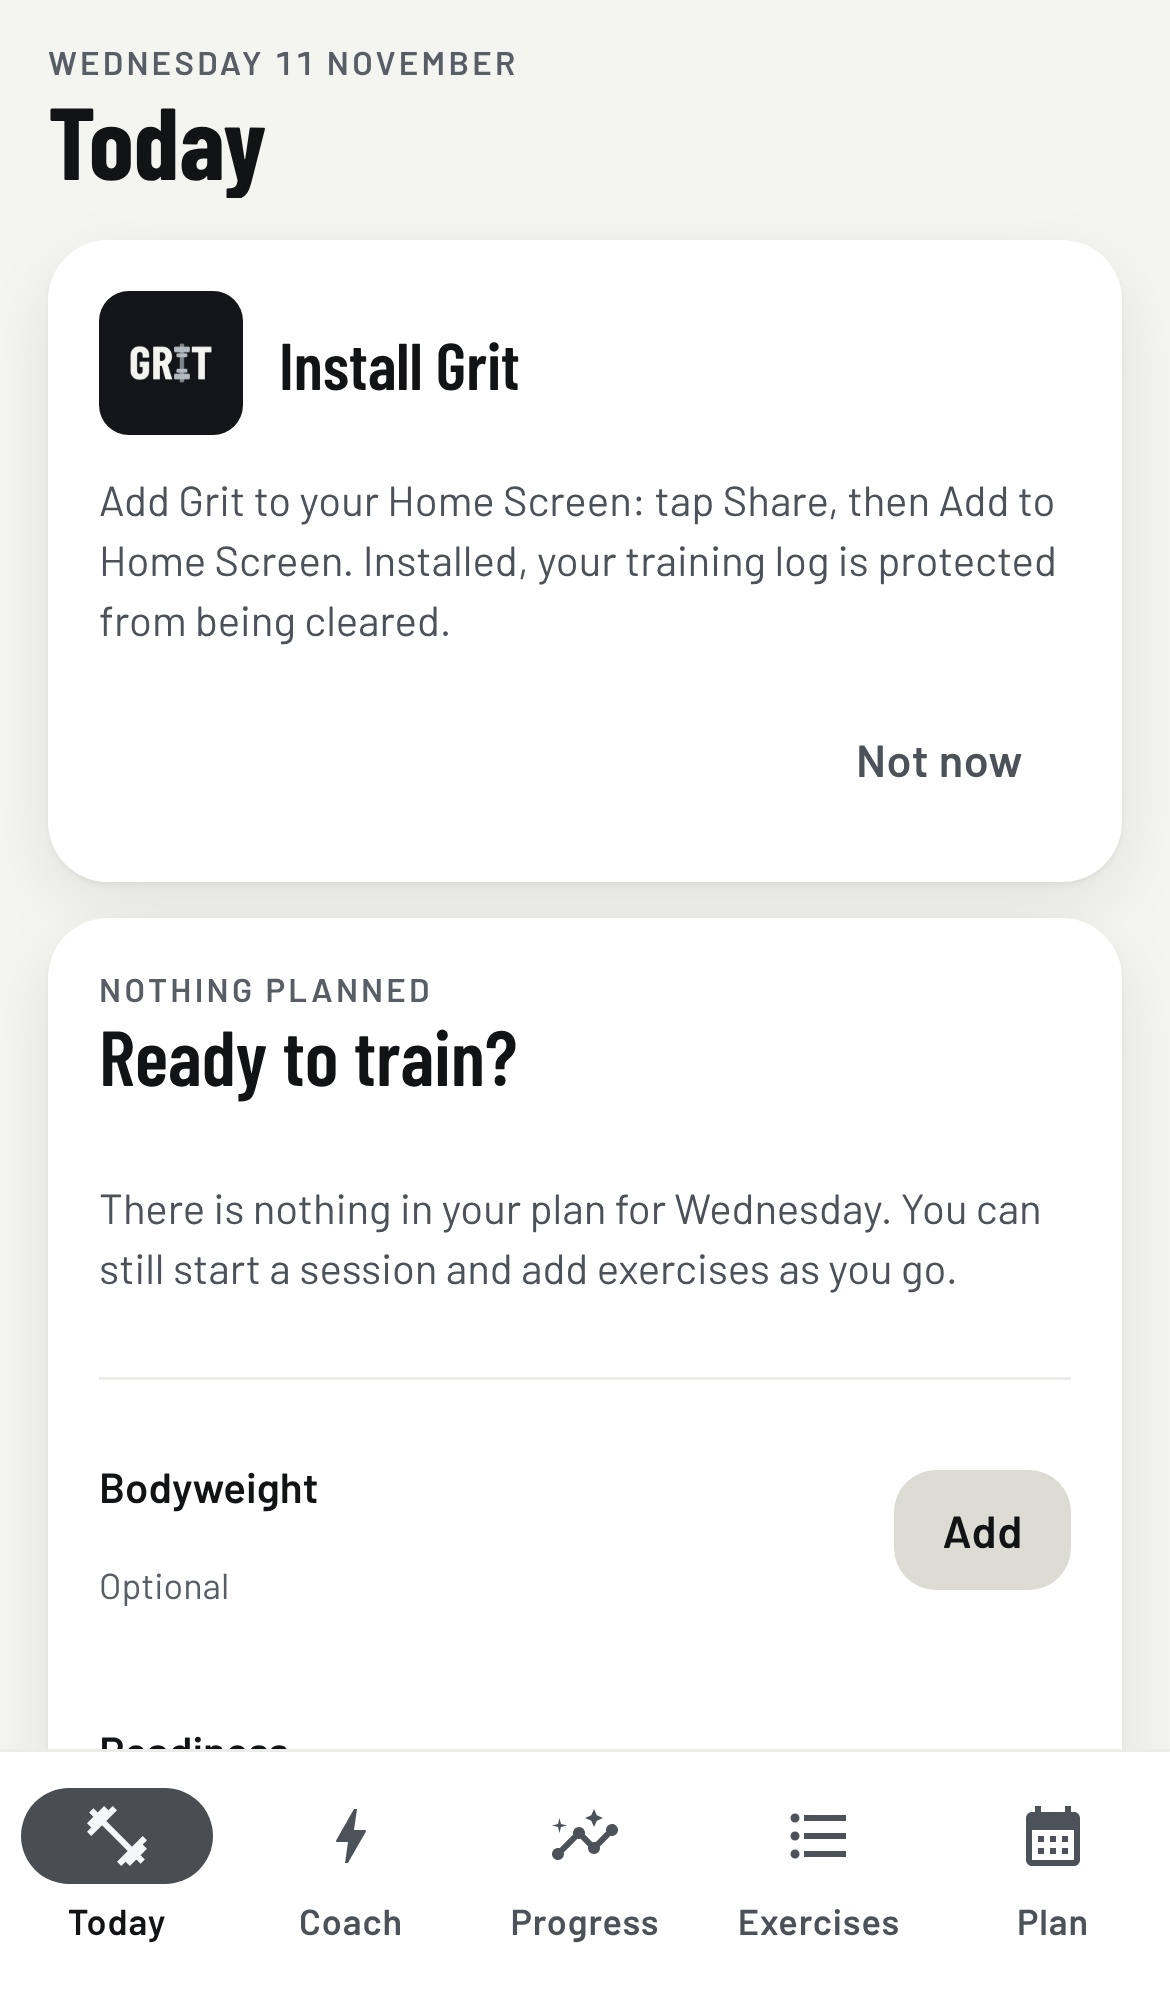
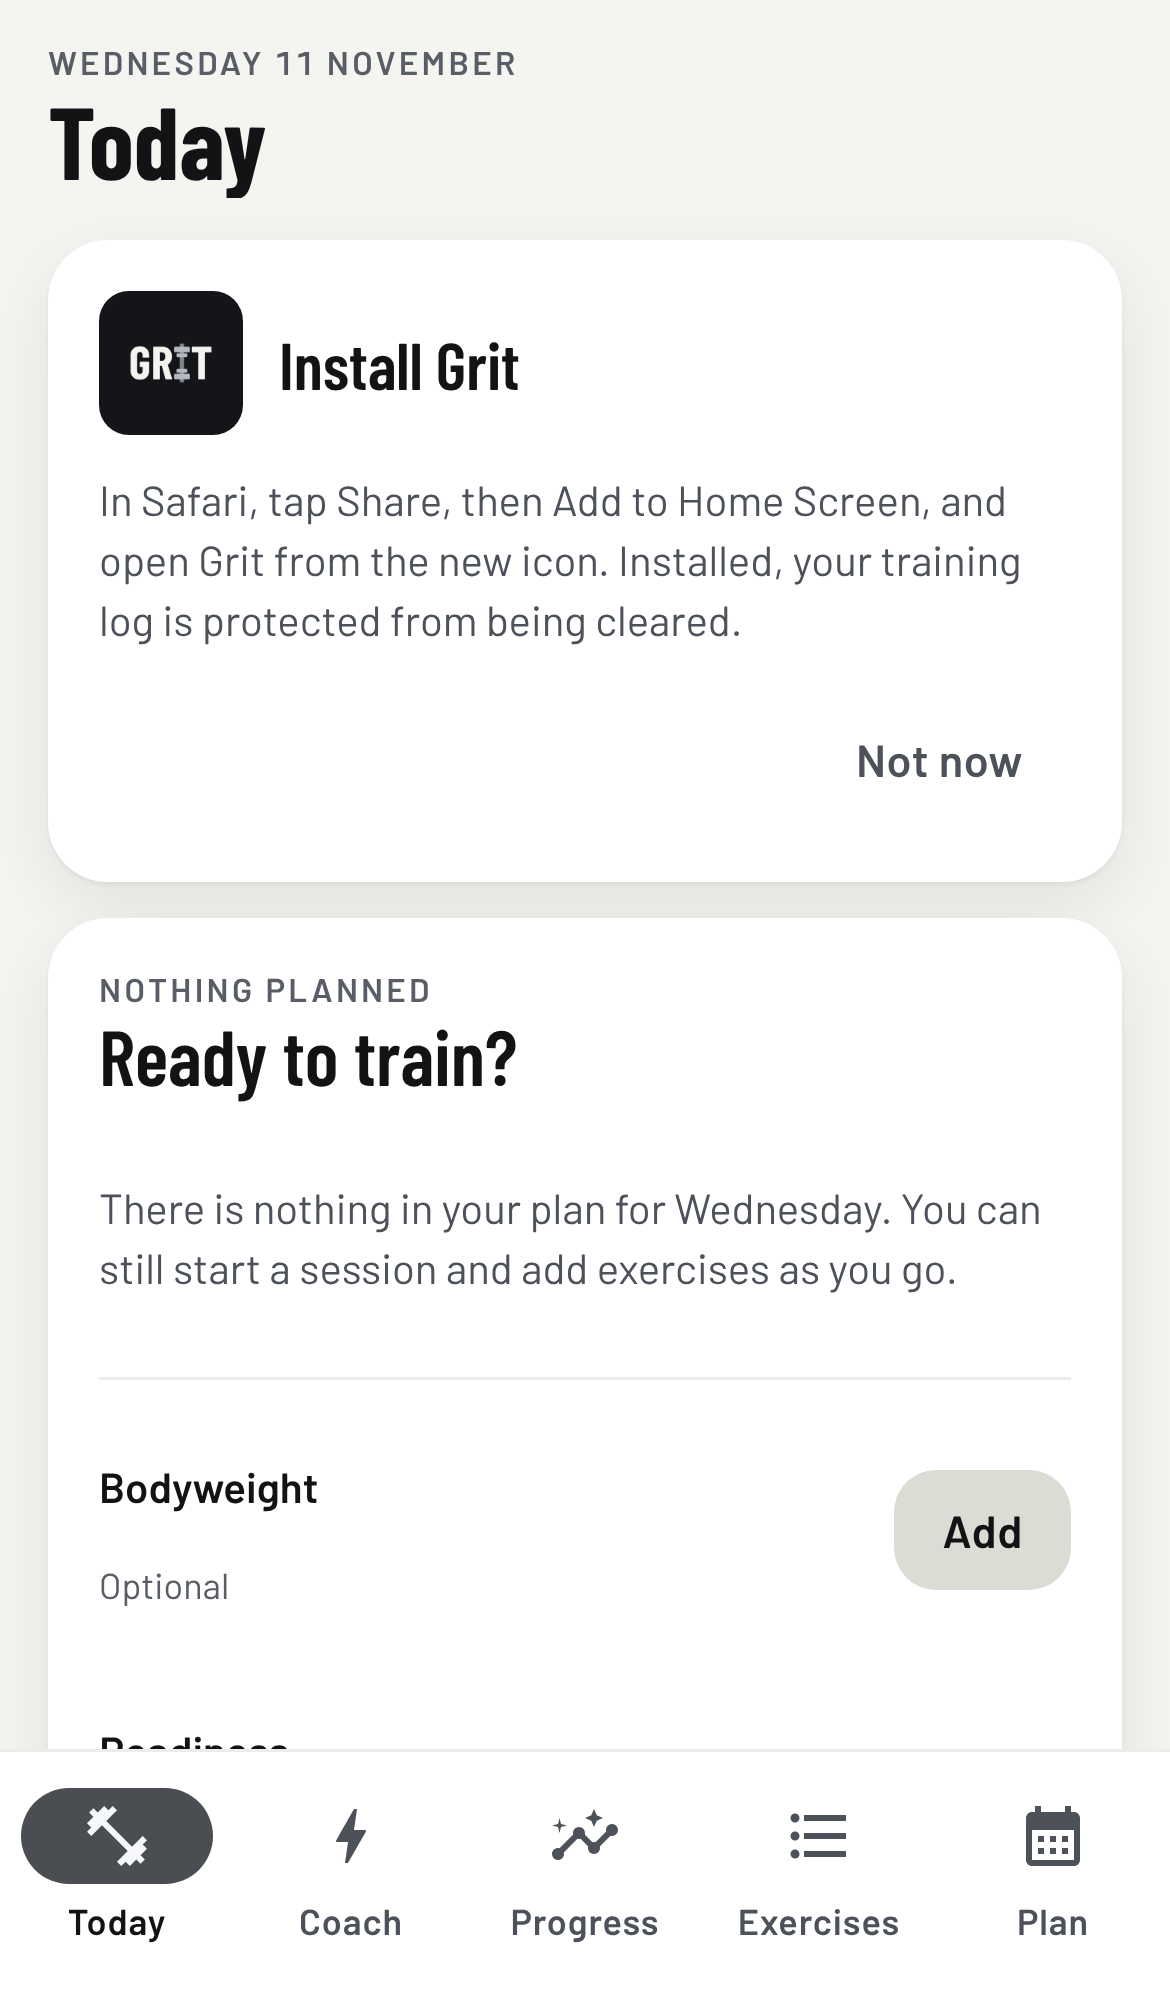
fix(web): Exercises tab names stay whole at large zoom; fresh screenshots
Under 320 px of viewport (a 375 px phone at 130% zoom is 288) a tab row has
no thumbnail tile, so Smith shoulder press, Concentration curl, Bodyweight
squat and Quadruped hip extension no longer break inside a word. New e2e
exercisesTab_namesWholeAt288 checks 288 and 320 px.

Re-shot today-install, session-saved and lock-setup (dark and light): they
showed the install card's wording from before ca5877f.

Claude-Session: https://claude.ai/code/session_01KboHw6FdBYrNDSMx1QWyzy

Changed region(s): [[0.0923, 0.249, 0.8923, 0.3424]]

diff --git a/web/e2e/pictures.spec.ts b/web/e2e/pictures.spec.ts
@@ -327,6 +327,53 @@ test('exercisesTab_customExercise_showsEmptyTile', async ({ page }) => {
   expect(await own.locator('.lib-thumb').evaluate((el) => getComputedStyle(el).backgroundColor)).toBe((await tokens(page))['--container-high'])
 })
 
+/**
+ * The catalogue names on the tab that break inside a word: a word whose letters are laid out on more than one line.
+ * A hyphen is a place a line may end, so "Safety-bar" over two lines at its hyphen is two whole words.
+ * Every row is laid out for this, rows off screen too (they skip layout through `content-visibility` otherwise).
+ */
+const namesBrokenInsideAWord = (page: Page) =>
+  page.locator('.shell-main .lib-scroll').evaluate((list) => {
+    const laidOut = document.createElement('style')
+    laidOut.textContent = '.lib-row { content-visibility: visible !important; }'
+    document.head.append(laidOut)
+    const broken: string[] = []
+    for (const name of list.querySelectorAll('.lib-row-name')) {
+      const text = name.firstChild
+      if (text == null || text.nodeType !== Node.TEXT_NODE) continue
+      for (const word of text.textContent!.matchAll(/[^\s-]+/g)) {
+        const range = document.createRange()
+        range.setStart(text, word.index)
+        range.setEnd(text, word.index + word[0].length)
+        if (new Set(Array.from(range.getClientRects(), (r) => Math.round(r.top))).size > 1) {
+          broken.push(name.textContent!)
+          break
+        }
+      }
+    }
+    laidOut.remove()
+    return broken
+  })
+
+test('exercisesTab_namesWholeAt288', async ({ page }) => {
+  // A 375 px phone at 130% zoom: 288 CSS px of room. Under 320 a row has no tile at all, so every name stays whole.
+  await page.setViewportSize({ width: 288, height: 625 })
+  await openTab(page)
+  await expect.poll(() => page.locator('.shell-main .lib-row').count()).toBeGreaterThanOrEqual(grit.library().length)
+  expect(await namesBrokenInsideAWord(page)).toEqual([])
+  for (const tile of await boxes(page.locator('.shell-main .lib-thumb'))) expect([tile.width, tile.height]).toEqual([0, 0])
+  // The name starts where the tile would have been, and nothing reaches past the phone.
+  const benchRow = await box(row(page, 'Bench').getByRole('button', { name: 'Open Bench' }))
+  expect((await box(row(page, 'Bench').locator('.lib-row-name'))).left - benchRow.left).toBeLessThan(56)
+  expect(await overflowing(page)).toEqual([])
+
+  // From 320 px the tiles are back, and the names are still whole.
+  await page.setViewportSize({ width: 320, height: 693 })
+  await expect.poll(async () => (await box(row(page, 'Bench').locator('.lib-thumb'))).width).toBeCloseTo(56, 0)
+  await expect(row(page, 'Bench').locator('.lib-thumb svg.fig')).toHaveCount(1)
+  expect(await namesBrokenInsideAWord(page)).toEqual([])
+})
+
 test('picker_hasNoThumbnails', async ({ page }) => {
   await openOnWednesday(page, '#/plan')
   await page.getByRole('region', { name: 'Monday' }).getByRole('button', { name: 'Add' }).click()

diff --git a/web/src/screens/library/library.css b/web/src/screens/library/library.css
@@ -286,6 +286,14 @@
   aspect-ratio: 4 / 3;
 }
 
+/* Under 320 px of room (a 375 px phone at 130% zoom is 288) the tile would leave too little for the name, and long
+   words such as "Concentration" break inside: there is no tile at all, as in the picker on Android. */
+@media (max-width: 319px) {
+  .lib-thumb {
+    display: none;
+  }
+}
+
 .lib-row-equipment {
   flex: none;
   color: var(--text-muted);
